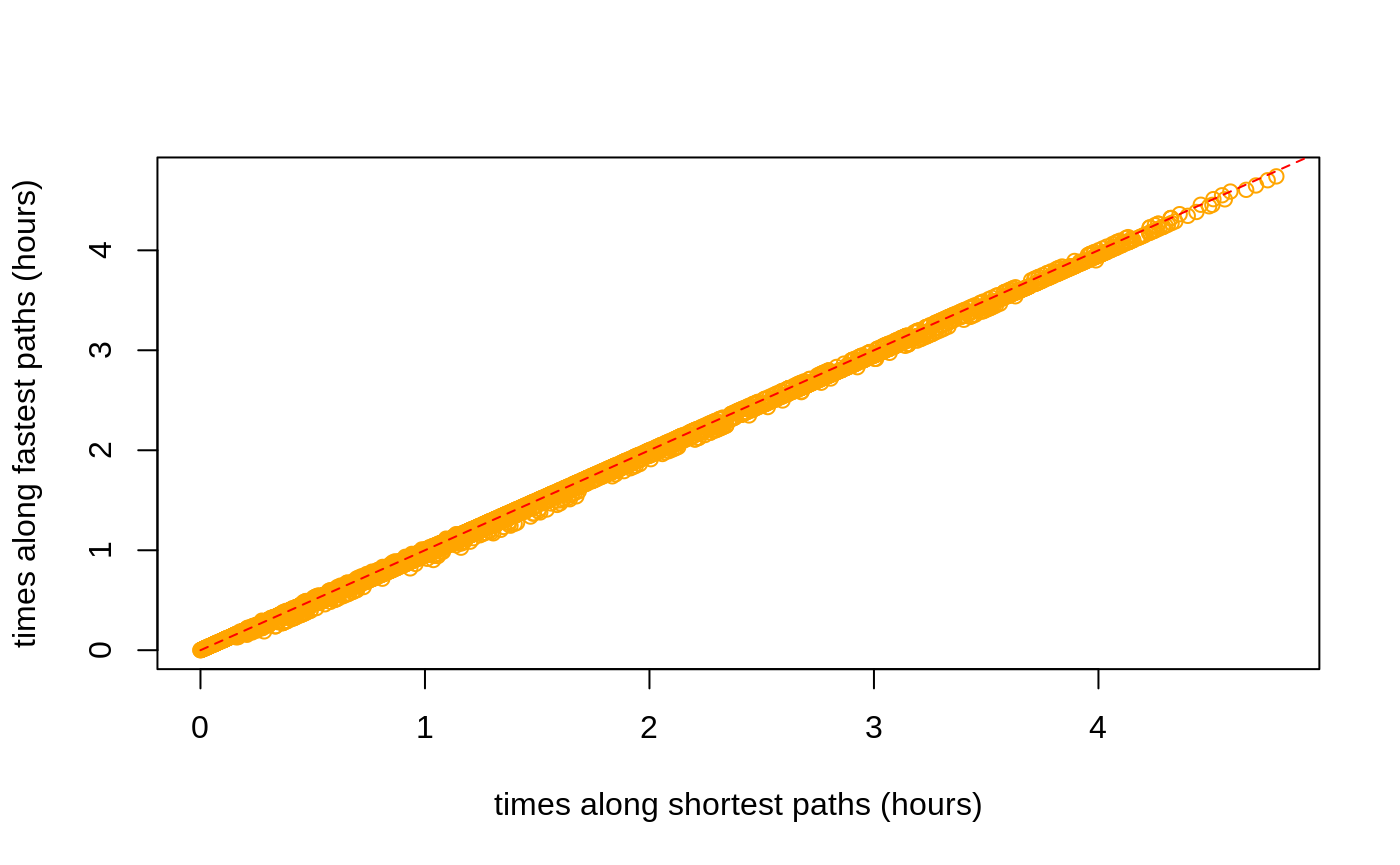
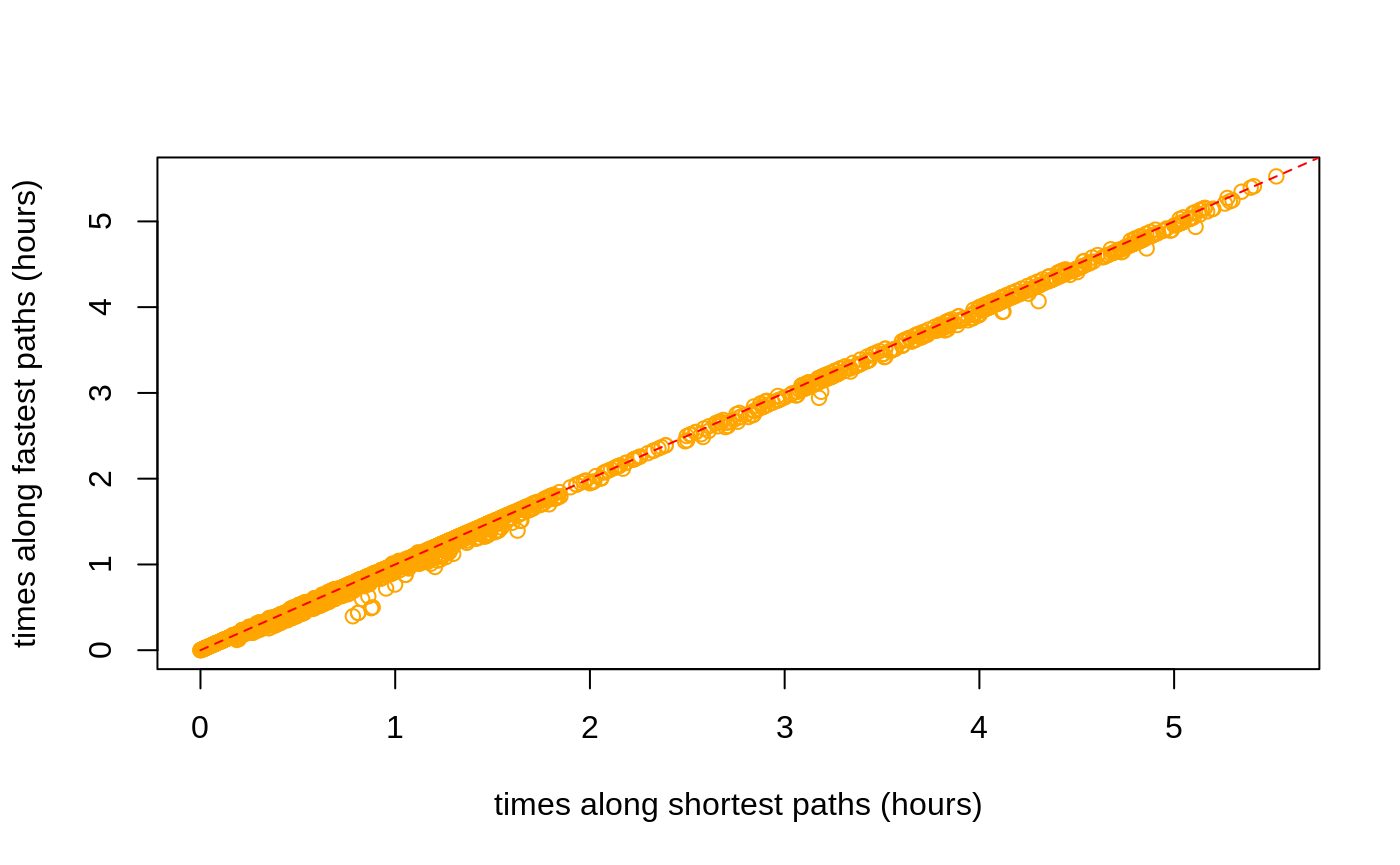
Built site for dodgr: 0.2.1.1@69491e1

diff --git a/articles/dodgr.html b/articles/dodgr.html
@@ -346,7 +346,7 @@ Figure 2: A <strong>dual</strong>-weighted, directed graph in which the weights 
 <p>The <code>dodgr</code> packages includes a function to select a random connected portion of graph including a specified number of vertices. This function is used in the <a href="https://atfutures.github.io/dodgr/reference/compare_heaps.html"><code><a href="../reference/compare_heaps.html">compare_heaps()</a></code></a> function described below, but is also useful for general statistical analyses of large graphs which may otherwise take too long to compute.</p>
 <div class="sourceCode" id="cb58"><pre class="sourceCode r"><code class="sourceCode r"><a class="sourceLine" id="cb58-1" data-line-number="1">graph_sub &lt;-<span class="st"> </span><span class="kw"><a href="../reference/dodgr_sample.html">dodgr_sample</a></span> (graph, <span class="dt">nverts =</span> <span class="dv">100</span>)</a>
 <a class="sourceLine" id="cb58-2" data-line-number="2"><span class="kw"><a href="https://rdrr.io/r/base/nrow.html">nrow</a></span> (graph_sub)</a></code></pre></div>
-<pre><code>## [1] 199</code></pre>
+<pre><code>## [1] 197</code></pre>
 <p>The random sample has around twice as many edges as vertices, in accordance with the statistics calculated above.</p>
 <div class="sourceCode" id="cb60"><pre class="sourceCode r"><code class="sourceCode r"><a class="sourceLine" id="cb60-1" data-line-number="1"><span class="kw"><a href="https://rdrr.io/r/base/nrow.html">nrow</a></span> (<span class="kw"><a href="../reference/dodgr_vertices.html">dodgr_vertices</a></span> (graph_sub))</a></code></pre></div>
 <pre><code>## [1] 100</code></pre>
@@ -423,31 +423,31 @@ Figure 2: A <strong>dual</strong>-weighted, directed graph in which the weights 
 <p>The comparisons are actually made on a randomly selected sub-component of the graph containing a defined number of vertices (with a default of 1,000, or the entire graph if it contains fewer than 1,000 vertices).</p>
 <div class="sourceCode" id="cb76"><pre class="sourceCode r"><code class="sourceCode r"><a class="sourceLine" id="cb76-1" data-line-number="1"><span class="kw"><a href="../reference/compare_heaps.html">compare_heaps</a></span> (graph, <span class="dt">nverts =</span> <span class="dv">1000</span>, <span class="dt">replications =</span> <span class="dv">1</span>)</a></code></pre></div>
 <pre><code>##                                                                                   test
-## 6       d &lt;- dodgr_dists(graph_contracted, from = from_id, to = to_id, heap = "BHeap")
 ## 11        d &lt;- dodgr_dists(graph_contracted, from = from_id, to = to_id, heap = "set")
+## 6       d &lt;- dodgr_dists(graph_contracted, from = from_id, to = to_id, heap = "BHeap")
 ## 7       d &lt;- dodgr_dists(graph_contracted, from = from_id, to = to_id, heap = "FHeap")
-## 8     d &lt;- dodgr_dists(graph_contracted, from = from_id, to = to_id, heap = "TriHeap")
 ## 9  d &lt;- dodgr_dists(graph_contracted, from = from_id, to = to_id, heap = "TriHeapExt")
+## 8     d &lt;- dodgr_dists(graph_contracted, from = from_id, to = to_id, heap = "TriHeap")
 ## 10     d &lt;- dodgr_dists(graph_contracted, from = from_id, to = to_id, heap = "Heap23")
 ## 1                  d &lt;- dodgr_dists(graph, from = from_id, to = to_id, heap = "BHeap")
 ## 12                  d &lt;- igraph::distances(igr, v = from_id, to = to_id, mode = "out")
 ## 2                  d &lt;- dodgr_dists(graph, from = from_id, to = to_id, heap = "FHeap")
-## 5                 d &lt;- dodgr_dists(graph, from = from_id, to = to_id, heap = "Heap23")
 ## 3                d &lt;- dodgr_dists(graph, from = from_id, to = to_id, heap = "TriHeap")
+## 5                 d &lt;- dodgr_dists(graph, from = from_id, to = to_id, heap = "Heap23")
 ## 4             d &lt;- dodgr_dists(graph, from = from_id, to = to_id, heap = "TriHeapExt")
 ##    replications elapsed relative user.self sys.self user.child sys.child
-## 6             1   0.005      1.0     0.007        0          0         0
-## 11            1   0.005      1.0     0.007        0          0         0
-## 7             1   0.007      1.4     0.011        0          0         0
-## 8             1   0.008      1.6     0.013        0          0         0
-## 9             1   0.008      1.6     0.008        0          0         0
-## 10            1   0.008      1.6     0.012        0          0         0
-## 1             1   0.016      3.2     0.027        0          0         0
-## 12            1   0.023      4.6     0.024        0          0         0
-## 2             1   0.027      5.4     0.047        0          0         0
-## 5             1   0.030      6.0     0.054        0          0         0
-## 3             1   0.032      6.4     0.057        0          0         0
-## 4             1   0.033      6.6     0.033        0          0         0</code></pre>
+## 11            1   0.004     1.00     0.004        0          0         0
+## 6             1   0.005     1.25     0.005        0          0         0
+## 7             1   0.005     1.25     0.006        0          0         0
+## 9             1   0.005     1.25     0.005        0          0         0
+## 8             1   0.006     1.50     0.006        0          0         0
+## 10            1   0.006     1.50     0.007        0          0         0
+## 1             1   0.015     3.75     0.021        0          0         0
+## 12            1   0.016     4.00     0.016        0          0         0
+## 2             1   0.018     4.50     0.029        0          0         0
+## 3             1   0.020     5.00     0.034        0          0         0
+## 5             1   0.021     5.25     0.034        0          0         0
+## 4             1   0.024     6.00     0.024        0          0         0</code></pre>
 <p>The key column of that <code>data.frame</code> is <code>relative</code>, which quantifies the relative performance of each test in relation to the best which is given a score of 1. <code>dodgr</code> using the default <code>heap = "BHeap"</code>, which is a binary heap priority queue, performs faster than <a href="https://igraph.org"><code>igraph</code></a> <span class="citation">(Csardi and Nepusz 2006)</span> for these graphs. Different kind of graphs will perform differently with different priority queue structures, and this function enables users to empirically discern the optimal heap for their kind of graph.</p>
 <p>Note, however, that this is not an entirely fair comparison, because <code>dodgr</code> calculates dual-weighted distances, whereas <a href="https://igraph.org"><code>igraph</code></a>—and indeed all other <strong>R</strong> packages—only directly calculate distances based on a single set of weights. Implementing dual-weighted routing in these cases requires explicitly re-tracing all paths and summing the second set of weights along each path. A time comparison in that case would be very strongly in favour of <code>dodgr</code>. Moreover, <code>dodgr</code> can convert graphs to contracted form through removing redundant vertices, as detailed in the following section. Doing so greatly improves performance with respect to <a href="https://igraph.org"><code>igraph</code></a>.</p>
 <p>For those wishing to do explicit comparisons themselves, the following code generates the <a href="https://igraph.org"><code>igraph</code></a> equivalent of <a href="https://atfutures.github.io/dodgr/reference/dodgr_distances.html"><code><a href="../reference/dodgr_distances.html">dodgr_distances()</a></code></a>, although of course for single-weighted graphs only:</p>
@@ -482,11 +482,11 @@ Figure 3: <strong>(A)</strong> Vertex#2 is redundant for routing calculations fr
 <a class="sourceLine" id="cb84-5" data-line-number="5">                       d2 &lt;-<span class="st"> </span><span class="kw"><a href="../reference/dodgr_dists.html">dodgr_dists</a></span> (graph, <span class="dt">from =</span> from, <span class="dt">to =</span> to),</a>
 <a class="sourceLine" id="cb84-6" data-line-number="6">                       <span class="dt">replications =</span> <span class="dv">2</span>)</a></code></pre></div>
 <pre><code>##                                             test replications elapsed
-## 2 d2 &lt;- dodgr_dists(graph, from = from, to = to)            2   0.048
-## 1   d2 &lt;- dodgr_dists(grc, from = from, to = to)            2   0.009
+## 2 d2 &lt;- dodgr_dists(graph, from = from, to = to)            2   0.047
+## 1   d2 &lt;- dodgr_dists(grc, from = from, to = to)            2   0.011
 ##   relative user.self sys.self user.child sys.child
-## 2    5.333     0.070        0          0         0
-## 1    1.000     0.012        0          0         0</code></pre>
+## 2    4.273     0.066        0          0         0
+## 1    1.000     0.013        0          0         0</code></pre>
 <p>And contracting the graph has a similar effect of speeding up pairwise routing between these 100 points. All routing algorithms scale non-linearly with size, and relative improvements in efficiency will be even greater for larger graphs.</p>
 <div id="routing-on-contracted-graphs" class="section level2">
 <h2 class="hasAnchor">
@@ -498,11 +498,11 @@ Figure 3: <strong>(A)</strong> Vertex#2 is redundant for routing calculations fr
 <pre><code>## [1] 672</code></pre>
 <div class="sourceCode" id="cb88"><pre class="sourceCode r"><code class="sourceCode r"><a class="sourceLine" id="cb88-1" data-line-number="1">verts &lt;-<span class="st"> </span><span class="kw"><a href="https://rdrr.io/r/base/sample.html">sample</a></span> (<span class="kw"><a href="../reference/dodgr_vertices.html">dodgr_vertices</a></span> (graph)<span class="op">$</span>id, <span class="dt">size =</span> <span class="dv">100</span>)</a>
 <a class="sourceLine" id="cb88-2" data-line-number="2"><span class="kw"><a href="https://rdrr.io/r/utils/head.html">head</a></span> (verts) <span class="co"># a character vector</span></a></code></pre></div>
-<pre><code>## [1] "3921523000" "2195425074" "2398957676" "3921513015" "4474520518"
-## [6] "2636406745"</code></pre>
+<pre><code>## [1] "5351820892" "3697937592" "339062241"  "2398957688" "1398748007"
+## [6] "1398747921"</code></pre>
 <div class="sourceCode" id="cb90"><pre class="sourceCode r"><code class="sourceCode r"><a class="sourceLine" id="cb90-1" data-line-number="1">grc &lt;-<span class="st"> </span><span class="kw"><a href="../reference/dodgr_contract_graph.html">dodgr_contract_graph</a></span> (graph, verts)</a>
 <a class="sourceLine" id="cb90-2" data-line-number="2"><span class="kw"><a href="https://rdrr.io/r/base/nrow.html">nrow</a></span> (grc)</a></code></pre></div>
-<pre><code>## [1] 850</code></pre>
+<pre><code>## [1] 848</code></pre>
 <p>Retaining the nominated vertices yields a graph with considerably more edges than the fully contracted graph excluding these vertices. The <a href="https://atfutures.github.io/dodgr/reference/dodgr_distances.html"><code><a href="../reference/dodgr_distances.html">dodgr_distances()</a></code></a> function can be applied to the latter graph to obtain accurate distances precisely routed between these points, yet using the speed advantages of graph contraction.</p>
 </div>
 </div>
@@ -543,25 +543,25 @@ Figure 3: <strong>(A)</strong> Vertex#2 is redundant for routing calculations fr
 <pre><code>## [1] 10</code></pre>
 <p>The result (<code>dp</code>) is a list of 10 items, each of which contains 5 vectors. An example is,</p>
 <div class="sourceCode" id="cb97"><pre class="sourceCode r"><code class="sourceCode r"><a class="sourceLine" id="cb97-1" data-line-number="1">dp [[<span class="dv">1</span>]] [[<span class="dv">1</span>]]</a></code></pre></div>
-<pre><code>##  [1] "339288038"  "339288035"  "339288031"  "339287997"  "339287962" 
-##  [6] "339060049"  "2717241313" "339060040"  "2717241328" "339060019" 
-## [11] "980400557"  "339060018"  "1148814953" "339060017"  "339059757" 
-## [16] "977478646"  "4474520829" "339574313"  "2636406742" "339574314" 
-## [21] "339574315"  "339574316"  "339574317"  "339574318"  "339574319" 
-## [26] "2627477682" "339574320"  "2398957885" "2398957883" "286632901" 
-## [31] "1148815150" "676875132"  "2398957865" "2398957867" "2398957871"
-## [36] "2398957873"</code></pre>
+<pre><code>##  [1] "339577274"  "1148815093" "339577272"  "339574837"  "339577276" 
+##  [6] "339577277"  "2717241325" "339577279"  "339577280"  "6162061978"
+## [11] "339577283"  "1427080647" "1427080646" "339577285"  "339577286" 
+## [16] "339577287"  "339577289"  "339577292"  "338905032"  "1376768330"
+## [21] "1376768904" "2398957715" "2398957716" "1376768543" "1376769137"
+## [26] "1376768847" "1376768484" "1376769045" "4506481428" "1376768697"
+## [31] "1376769196" "6414886574" "1376768817" "1376768447" "6414886575"
+## [36] "1376769017" "6414886576"</code></pre>
 <p>For spatial graphs, the coordinates of these paths can be obtained by extracting the vertices with <code><a href="../reference/dodgr_vertices.html">dodgr_vertices()</a></code> and matching the vertex IDs:</p>
 <div class="sourceCode" id="cb99"><pre class="sourceCode r"><code class="sourceCode r"><a class="sourceLine" id="cb99-1" data-line-number="1">verts &lt;-<span class="st"> </span><span class="kw"><a href="../reference/dodgr_vertices.html">dodgr_vertices</a></span> (graph)</a>
 <a class="sourceLine" id="cb99-2" data-line-number="2">path1 &lt;-<span class="st"> </span>verts [<span class="kw"><a href="https://rdrr.io/r/base/match.html">match</a></span> (dp [[<span class="dv">1</span>]] [[<span class="dv">1</span>]], verts<span class="op">$</span>id), ]</a>
 <a class="sourceLine" id="cb99-3" data-line-number="3"><span class="kw"><a href="https://rdrr.io/r/utils/head.html">head</a></span> (path1)</a></code></pre></div>
-<pre><code>##            id        x        y component   n
-## 304 339288038 76.45780 15.33633         1 156
-## 302 339288035 76.45795 15.33635         1 155
-## 300 339288031 76.45800 15.33636         1 154
-## 298 339287997 76.45883 15.33644         1 153
-## 296 339287962 76.45918 15.33645         1 152
-## 294 339060049 76.45934 15.33645         1 151</code></pre>
+<pre><code>##              id        x        y component    n
+## 2476  339577274 76.46980 15.31939         1 1247
+## 2474 1148815093 76.46977 15.31905         1 1246
+## 2472  339577272 76.46972 15.31871         1 1245
+## 540   339574837 76.46961 15.31845         1  274
+## 570   339577276 76.46937 15.31848         1  290
+## 572   339577277 76.46867 15.31861         1  291</code></pre>
 <p>Paths calculated on contracted graphs will of course have fewer vertices than those calculated on full graphs.</p>
 </div>
 <div id="aggregated-flows" class="section level1">
@@ -595,17 +595,17 @@ Figure 3: <strong>(A)</strong> Vertex#2 is redundant for routing calculations fr
 ## 4 15.34173   8.888670    9.87630 unclassified 28565950         1  2.133281
 ## 5 15.34179   9.326536   10.36282 unclassified 28565950         1  2.238369
 ## 6 15.34174   9.326536   10.36282 unclassified 28565950         1  2.238369
-##   time_weighted     flow
-## 1     35.317912 23.15109
-## 2     35.317912  0.00000
-## 3      2.370312 23.15109
-## 4      2.370312  0.00000
-## 5      2.487076 23.15109
-## 6      2.487076  0.00000</code></pre>
+##   time_weighted flow
+## 1     35.317912    0
+## 2     35.317912    0
+## 3      2.370312    0
+## 4      2.370312    0
+## 5      2.487076    0
+## 6      2.487076    0</code></pre>
 <p>Most flows are zero because they have only been calculated between very few points in the graph.</p>
 <div class="sourceCode" id="cb104"><pre class="sourceCode r"><code class="sourceCode r"><a class="sourceLine" id="cb104-1" data-line-number="1"><span class="kw"><a href="https://rdrr.io/r/base/summary.html">summary</a></span> (graph_f<span class="op">$</span>flow)</a></code></pre></div>
 <pre><code>##    Min. 1st Qu.  Median    Mean 3rd Qu.    Max. 
-##   0.000   0.000   0.000   4.659   0.000  79.530</code></pre>
+##   0.000   0.000   0.000   5.173   0.000  68.705</code></pre>
 </div>
 <div id="flow-dispersal" class="section level2">
 <h2 class="hasAnchor">
@@ -614,8 +614,8 @@ Figure 3: <strong>(A)</strong> Vertex#2 is redundant for routing calculations fr
 <div class="sourceCode" id="cb106"><pre class="sourceCode r"><code class="sourceCode r"><a class="sourceLine" id="cb106-1" data-line-number="1">dens &lt;-<span class="st"> </span><span class="kw"><a href="https://rdrr.io/r/base/rep.html">rep</a></span> (<span class="dv">1</span>, <span class="kw"><a href="https://rdrr.io/r/base/length.html">length</a></span> (from)) <span class="co"># uniform densities</span></a>
 <a class="sourceLine" id="cb106-2" data-line-number="2">graph_f &lt;-<span class="st"> </span><span class="kw"><a href="../reference/dodgr_flows_disperse.html">dodgr_flows_disperse</a></span> (graph, <span class="dt">from =</span> from, <span class="dt">dens =</span> dens)</a>
 <a class="sourceLine" id="cb106-3" data-line-number="3"><span class="kw"><a href="https://rdrr.io/r/base/summary.html">summary</a></span> (graph_f<span class="op">$</span>flow)</a></code></pre></div>
-<pre><code>##    Min. 1st Qu.  Median    Mean 3rd Qu.    Max. 
-## 0.00000 0.00000 0.01864 0.14478 0.17343 1.60893</code></pre>
+<pre><code>##     Min.  1st Qu.   Median     Mean  3rd Qu.     Max. 
+## 0.000000 0.000000 0.003699 0.111746 0.104998 1.867851</code></pre>
 </div>
 <div id="merging-directed-flows" class="section level2">
 <h2 class="hasAnchor">
@@ -625,7 +625,7 @@ Figure 3: <strong>(A)</strong> Vertex#2 is redundant for routing calculations fr
 <p>Resultant graphs produced by <a href="https://atfutures.github.io/dodgr/reference/merge_directed_flows.html"><code><a href="../reference/merge_directed_flows.html">merge_directed_flows()</a></code></a> only include those edges having non-zero flows, and so:</p>
 <div class="sourceCode" id="cb109"><pre class="sourceCode r"><code class="sourceCode r"><a class="sourceLine" id="cb109-1" data-line-number="1"><span class="kw"><a href="https://rdrr.io/r/base/nrow.html">nrow</a></span> (graph_f); <span class="kw"><a href="https://rdrr.io/r/base/nrow.html">nrow</a></span> (graph_undir) <span class="co"># the latter is much smaller</span></a></code></pre></div>
 <pre><code>## [1] 5973</code></pre>
-<pre><code>## [1] 2768</code></pre>
+<pre><code>## [1] 2859</code></pre>
 <p>The resultant graph can readily be merged with the original graph to regain the original data on vertex coordinates through</p>
 <div class="sourceCode" id="cb112"><pre class="sourceCode r"><code class="sourceCode r"><a class="sourceLine" id="cb112-1" data-line-number="1">graph &lt;-<span class="st"> </span>graph [graph_undir<span class="op">$</span>edge_id, ]</a>
 <a class="sourceLine" id="cb112-2" data-line-number="2">graph<span class="op">$</span>flow &lt;-<span class="st"> </span>graph_undir<span class="op">$</span>flow</a></code></pre></div>

diff --git a/articles/times.html b/articles/times.html
@@ -230,11 +230,11 @@ Figure 1: Graph modification to account for turn penalties, which introduces the
 <p><img src="times_files/figure-html/shortest-vs-fastest-1.png" width="700"></p>
 <p>The average distance between the two (in metres) is:</p>
 <div class="sourceCode" id="cb9"><pre class="sourceCode r"><code class="sourceCode r"><a class="sourceLine" id="cb9-1" data-line-number="1"><span class="kw"><a href="https://rdrr.io/r/base/mean.html">mean</a></span> (<span class="kw"><a href="https://rdrr.io/r/base/MathFun.html">abs</a></span> (d_time <span class="op">-</span><span class="st"> </span>d_dist), <span class="dt">na.rm =</span> <span class="ot">TRUE</span>)</a></code></pre></div>
-<pre><code>## [1] 53.89284</code></pre>
+<pre><code>## [1] 45.52948</code></pre>
 <p>The plot reveals that shortest distances are indeed somewhat shorter than distances along fastest paths, but also that some fastest paths are actually shorter than shortest paths:</p>
 <div class="sourceCode" id="cb11"><pre class="sourceCode r"><code class="sourceCode r"><a class="sourceLine" id="cb11-1" data-line-number="1">index &lt;-<span class="st"> </span><span class="kw"><a href="https://rdrr.io/r/base/which.html">which</a></span> (<span class="op">!</span><span class="kw"><a href="https://rdrr.io/r/base/NA.html">is.na</a></span> (d_time) <span class="op">&amp;</span><span class="st"> </span><span class="op">!</span><span class="kw"><a href="https://rdrr.io/r/base/NA.html">is.na</a></span> (d_dist))</a>
 <a class="sourceLine" id="cb11-2" data-line-number="2"><span class="kw"><a href="https://rdrr.io/r/base/length.html">length</a></span> (<span class="kw"><a href="https://rdrr.io/r/base/which.html">which</a></span> (d_time [index] <span class="op">&lt;</span><span class="st"> </span>d_dist [index])) <span class="op">/</span><span class="st"> </span><span class="kw"><a href="https://rdrr.io/r/base/length.html">length</a></span> (index)</a></code></pre></div>
-<pre><code>## [1] 0.01076067</code></pre>
+<pre><code>## [1] 0.0246077</code></pre>
 <p>While <code>dodgr</code> and indeed all routing engines attempt to maximally reconcile differences between fastest and shortest routes, there nevertheless remain important discrepancies. Foremost among these, and the primary reason why some fastest routes may in fact be shorter than shortest routes, is that fastest routes allocate preferences for different kinds of way based both on the <code>value</code> column in the <code>weighting_profiles$weighting_profiles</code> table illustrated above, and on the actual maximum speed of a given edge, which itself may be a combination of maximum speeds as specified in OSM itself, maximum speeds from the <code>weighting_profiles$weighting_profiles</code> table, or values specific to a given surface. The result is that some unique combination of maximum speeds along a network may lead to <em>fastest</em> routes being preferentially directed along a path that is actually shorter than the direct shortest path which is calculated independent of maximum speed values.</p>
 <p>Such discrepancies are important in understanding differences in routes <em>times</em> calculated along shortest versus fastest paths. These times can be calculated (in seconds) with the <a href="https://atfutures.github.io/dodgr/reference/dodgr_times.html"><code><a href="../reference/dodgr_times.html">dodgr_times()</a></code></a> function:</p>
 <div class="sourceCode" id="cb13"><pre class="sourceCode r"><code class="sourceCode r"><a class="sourceLine" id="cb13-1" data-line-number="1">t_dist &lt;-<span class="st"> </span><span class="kw"><a href="../reference/dodgr_times.html">dodgr_times</a></span> (graph, <span class="dt">from =</span> from, <span class="dt">to =</span> to, <span class="dt">shortest =</span> <span class="ot">TRUE</span>) <span class="co"># default</span></a>
@@ -245,11 +245,11 @@ Figure 1: Graph modification to account for turn penalties, which introduces the
 <a class="sourceLine" id="cb13-6" data-line-number="6"><span class="kw"><a href="https://rdrr.io/r/graphics/lines.html">lines</a></span> (<span class="dv">0</span><span class="op">:</span><span class="dv">100</span>, <span class="dv">0</span><span class="op">:</span><span class="dv">100</span>, <span class="dt">col =</span> <span class="st">"red"</span>, <span class="dt">lty =</span> <span class="dv">2</span>)</a></code></pre></div>
 <p><img src="times_files/figure-html/shortest-vs-fastest-times-1.png" width="700"></p>
 <div class="sourceCode" id="cb14"><pre class="sourceCode r"><code class="sourceCode r"><a class="sourceLine" id="cb14-1" data-line-number="1"><span class="kw"><a href="https://rdrr.io/r/base/mean.html">mean</a></span> (<span class="kw"><a href="https://rdrr.io/r/base/MathFun.html">abs</a></span> (t_time <span class="op">-</span><span class="st"> </span>t_dist), <span class="dt">na.rm =</span> <span class="ot">TRUE</span>)</a></code></pre></div>
-<pre><code>## [1] 52.19159</code></pre>
+<pre><code>## [1] 46.00069</code></pre>
 <p>As above, times along fastest paths are generally less than times along shortest paths, although there are again a few exceptions:</p>
 <div class="sourceCode" id="cb16"><pre class="sourceCode r"><code class="sourceCode r"><a class="sourceLine" id="cb16-1" data-line-number="1">index &lt;-<span class="st"> </span><span class="kw"><a href="https://rdrr.io/r/base/which.html">which</a></span> (<span class="op">!</span><span class="kw"><a href="https://rdrr.io/r/base/NA.html">is.na</a></span> (t_time) <span class="op">&amp;</span><span class="st"> </span><span class="op">!</span><span class="kw"><a href="https://rdrr.io/r/base/NA.html">is.na</a></span> (t_dist))</a>
 <a class="sourceLine" id="cb16-2" data-line-number="2"><span class="kw"><a href="https://rdrr.io/r/base/length.html">length</a></span> (<span class="kw"><a href="https://rdrr.io/r/base/which.html">which</a></span> (t_dist [index] <span class="op">&lt;</span><span class="st"> </span>t_time [index])) <span class="op">/</span><span class="st"> </span><span class="kw"><a href="https://rdrr.io/r/base/length.html">length</a></span> (index)</a></code></pre></div>
-<pre><code>## [1] 0.02300557</code></pre>
+<pre><code>## [1] 0.02014979</code></pre>
 <p>These results demonstrate how the combination of the <a href="https://atfutures.github.io/dodgr/reference/dodgr_distances.html"><code><a href="../reference/dodgr_distances.html">dodgr_distances()</a></code></a> and <a href="https://atfutures.github.io/dodgr/reference/dodgr_times.html"><code><a href="../reference/dodgr_times.html">dodgr_times()</a></code></a> functions enable calculation of both distances and times along both shortest and fastest paths.</p>
 <div id="time-based-paths-and-flow-aggregation" class="section level2">
 <h2 class="hasAnchor">

diff --git a/reference/compare_heaps.html b/reference/compare_heaps.html
@@ -165,22 +165,22 @@ fair comparisons, run only once or re-start the current R session.</p>
 #&gt; 1                  d &lt;- dodgr_dists(graph, from = from_id, to = to_id, heap = "BHeap")
 #&gt; 12                  d &lt;- igraph::distances(igr, v = from_id, to = to_id, mode = "out")
 #&gt; 2                  d &lt;- dodgr_dists(graph, from = from_id, to = to_id, heap = "FHeap")
-#&gt; 5                 d &lt;- dodgr_dists(graph, from = from_id, to = to_id, heap = "Heap23")
 #&gt; 3                d &lt;- dodgr_dists(graph, from = from_id, to = to_id, heap = "TriHeap")
+#&gt; 5                 d &lt;- dodgr_dists(graph, from = from_id, to = to_id, heap = "Heap23")
 #&gt; 4             d &lt;- dodgr_dists(graph, from = from_id, to = to_id, heap = "TriHeapExt")
 #&gt;    replications elapsed relative user.self sys.self user.child sys.child
-#&gt; 6             1   0.005      1.0     0.007    0.000          0         0
-#&gt; 11            1   0.006      1.2     0.008    0.000          0         0
-#&gt; 7             1   0.007      1.4     0.011    0.000          0         0
-#&gt; 8             1   0.008      1.6     0.009    0.003          0         0
-#&gt; 9             1   0.008      1.6     0.008    0.000          0         0
-#&gt; 10            1   0.008      1.6     0.012    0.000          0         0
-#&gt; 1             1   0.017      3.4     0.027    0.000          0         0
-#&gt; 12            1   0.023      4.6     0.023    0.000          0         0
-#&gt; 2             1   0.027      5.4     0.047    0.000          0         0
-#&gt; 5             1   0.031      6.2     0.055    0.000          0         0
-#&gt; 3             1   0.032      6.4     0.058    0.001          0         0
-#&gt; 4             1   0.032      6.4     0.032    0.000          0         0</div></pre>
+#&gt; 6             1   0.004     1.00     0.005    0.000          0         0
+#&gt; 11            1   0.004     1.00     0.005    0.000          0         0
+#&gt; 7             1   0.005     1.25     0.006    0.000          0         0
+#&gt; 8             1   0.005     1.25     0.003    0.004          0         0
+#&gt; 9             1   0.005     1.25     0.005    0.000          0         0
+#&gt; 10            1   0.005     1.25     0.006    0.000          0         0
+#&gt; 1             1   0.012     3.00     0.018    0.000          0         0
+#&gt; 12            1   0.016     4.00     0.016    0.000          0         0
+#&gt; 2             1   0.018     4.50     0.028    0.000          0         0
+#&gt; 3             1   0.020     5.00     0.033    0.000          0         0
+#&gt; 5             1   0.020     5.00     0.032    0.000          0         0
+#&gt; 4             1   0.022     5.50     0.022    0.000          0         0</div></pre>
   </div>
   <div class="col-md-3 hidden-xs hidden-sm" id="sidebar">
     <h2>Contents</h2>

diff --git a/reference/dodgr_sample.html b/reference/dodgr_sample.html
@@ -143,7 +143,7 @@ the requested <code>nverts</code>.</p>
     <h2 class="hasAnchor" id="examples"><a class="anchor" href="#examples"></a>Examples</h2>
     <pre class="examples"><div class='input'><span class='no'>graph</span> <span class='kw'>&lt;-</span> <span class='fu'><a href='weight_streetnet.html'>weight_streetnet</a></span> (<span class='no'>hampi</span>)
 <span class='fu'><a href='https://rdrr.io/r/base/nrow.html'>nrow</a></span> (<span class='no'>graph</span>) <span class='co'># 5,742</span></div><div class='output co'>#&gt; [1] 5973</div><div class='input'><span class='no'>graph</span> <span class='kw'>&lt;-</span> <span class='fu'>dodgr_sample</span> (<span class='no'>graph</span>, <span class='kw'>nverts</span> <span class='kw'>=</span> <span class='fl'>200</span>)
-<span class='fu'><a href='https://rdrr.io/r/base/nrow.html'>nrow</a></span> (<span class='no'>graph</span>) <span class='co'># generally around 400 edges</span></div><div class='output co'>#&gt; [1] 399</div><div class='input'><span class='fu'><a href='https://rdrr.io/r/base/nrow.html'>nrow</a></span> (<span class='fu'><a href='dodgr_vertices.html'>dodgr_vertices</a></span> (<span class='no'>graph</span>)) <span class='co'># 200</span></div><div class='output co'>#&gt; [1] 200</div></pre>
+<span class='fu'><a href='https://rdrr.io/r/base/nrow.html'>nrow</a></span> (<span class='no'>graph</span>) <span class='co'># generally around 400 edges</span></div><div class='output co'>#&gt; [1] 397</div><div class='input'><span class='fu'><a href='https://rdrr.io/r/base/nrow.html'>nrow</a></span> (<span class='fu'><a href='dodgr_vertices.html'>dodgr_vertices</a></span> (<span class='no'>graph</span>)) <span class='co'># 200</span></div><div class='output co'>#&gt; [1] 200</div></pre>
   </div>
   <div class="col-md-3 hidden-xs hidden-sm" id="sidebar">
     <h2>Contents</h2>
